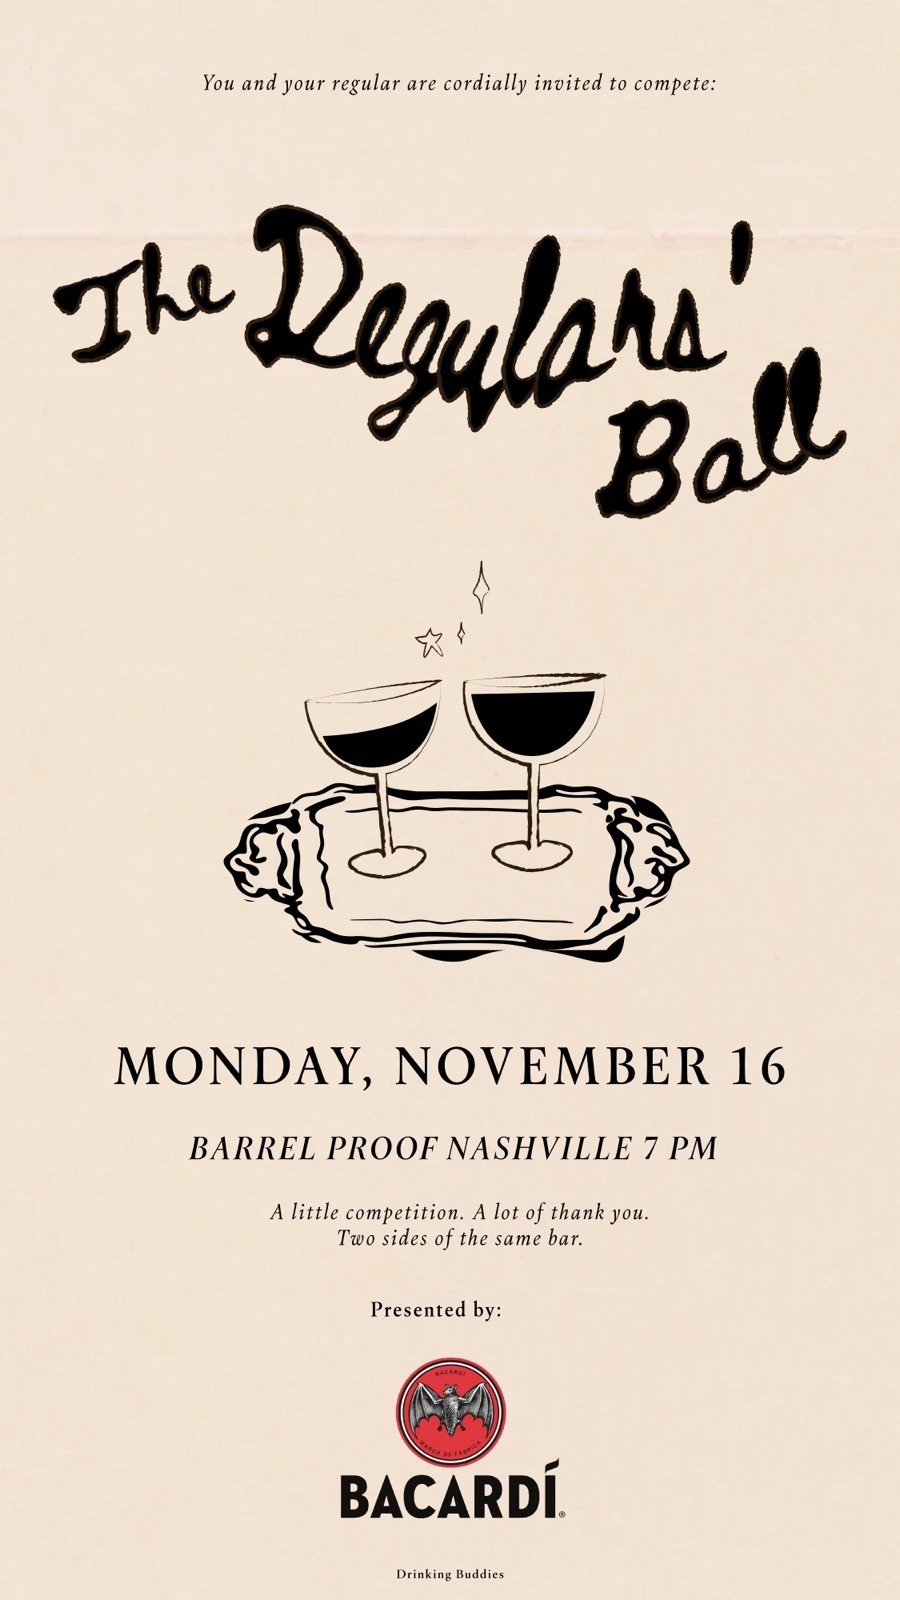
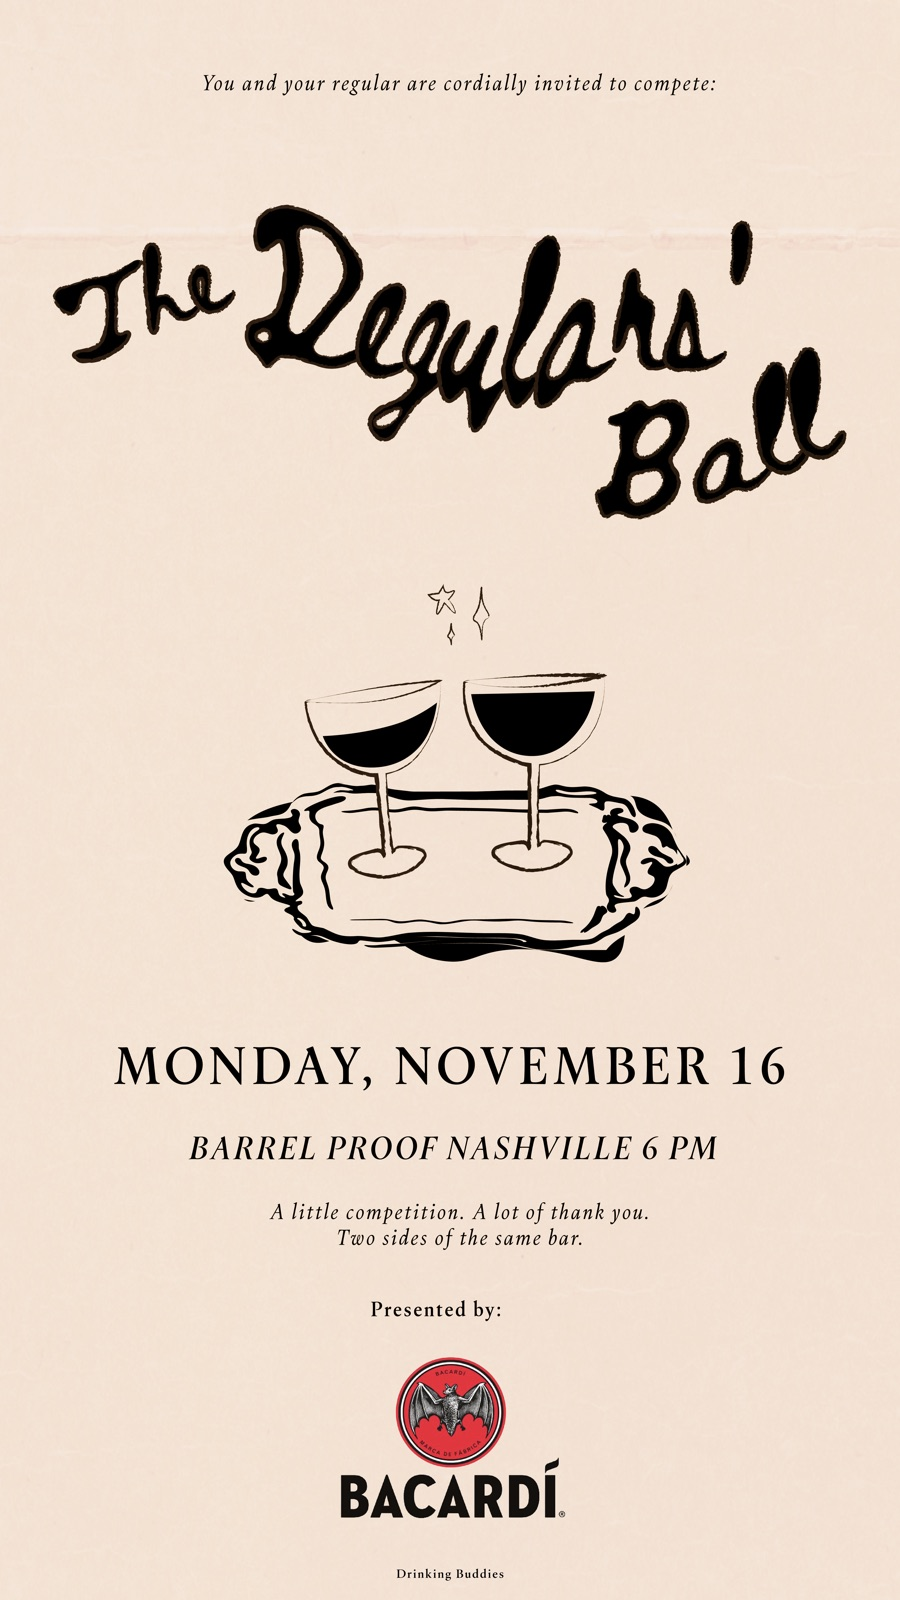
Swap in updated Regulars' Ball flyer with 6 PM start

diff --git a/regulars-ball.html b/regulars-ball.html
@@ -401,7 +401,7 @@
 
   <header class="hero">
     <h1 class="sr-only">The Regulars' Ball</h1>
-    <img class="flyer" src="images/regulars-ball-flyer.jpg" alt="You and your regular are cordially invited to compete: The Regulars' Ball. Monday, November 16, Barrel Proof Nashville, 7 PM. A little competition. A lot of thank you. Two sides of the same bar. Presented by Bacardi and Drinking Buddies.">
+    <img class="flyer" src="images/regulars-ball-flyer.jpg" alt="You and your regular are cordially invited to compete: The Regulars' Ball. Monday, November 16, Barrel Proof Nashville, 6 PM. A little competition. A lot of thank you. Two sides of the same bar. Presented by Bacardi and Drinking Buddies.">
   </header>
 
   <section class="rules">
